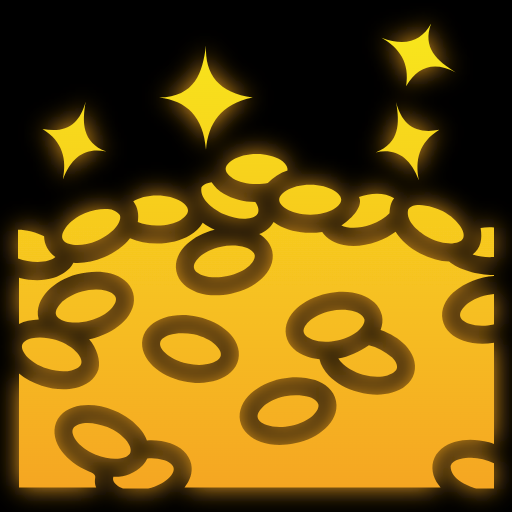
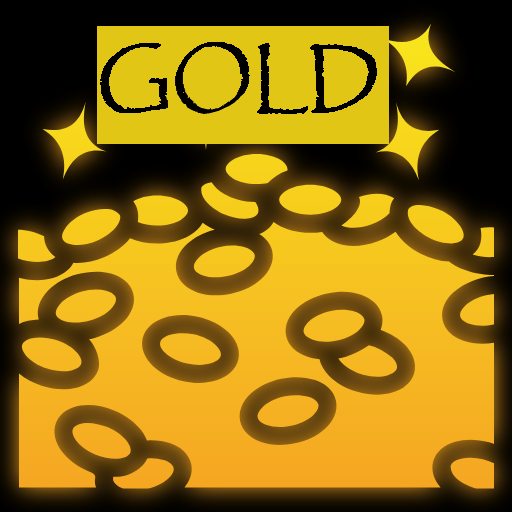
Got gold working.

Changed region(s): [[0.1875, 0.0312, 0.7812, 0.2812]]

diff --git a/Project/Fall2020_CSC403_Project/FrmLevel.Designer.cs b/Project/Fall2020_CSC403_Project/FrmLevel.Designer.cs
@@ -28,7 +28,7 @@
             this.lblInGameTime = new System.Windows.Forms.Label();
             this.tmrUpdateInGameTime = new System.Windows.Forms.Timer(this.components);
             this.tmrPlayerMove = new System.Windows.Forms.Timer(this.components);
-            this.label1 = new System.Windows.Forms.Label();
+            this.goldDisplay = new System.Windows.Forms.Label();
             this.pictureBox1 = new System.Windows.Forms.PictureBox();
             this.picWall11 = new System.Windows.Forms.PictureBox();
             this.picWall2 = new System.Windows.Forms.PictureBox();
@@ -93,19 +93,19 @@
             this.tmrPlayerMove.Interval = 10;
             this.tmrPlayerMove.Tick += new System.EventHandler(this.tmrPlayerMove_Tick);
             // 
-            // label1
+            // goldDisplay
             // 
-            this.label1.AutoSize = true;
-            this.label1.BackColor = System.Drawing.Color.Gold;
-            this.label1.DataBindings.Add(new System.Windows.Forms.Binding("Text", global::Fall2020_CSC403_Project.Properties.Settings.Default, "Gold", true, System.Windows.Forms.DataSourceUpdateMode.OnPropertyChanged));
-            this.label1.Font = new System.Drawing.Font("Papyrus", 12F, System.Drawing.FontStyle.Bold, System.Drawing.GraphicsUnit.Point, ((byte)(0)));
-            this.label1.Location = new System.Drawing.Point(551, 9);
-            this.label1.Name = "label1";
-            this.label1.Size = new System.Drawing.Size(53, 31);
-            this.label1.TabIndex = 18;
-            this.label1.Text = global::Fall2020_CSC403_Project.Properties.Settings.Default.Gold;
-            this.label1.UseCompatibleTextRendering = true;
-            this.label1.Click += new System.EventHandler(this.Label1_Click);
+            this.goldDisplay.AutoSize = true;
+            this.goldDisplay.BackColor = System.Drawing.Color.Gold;
+            this.goldDisplay.DataBindings.Add(new System.Windows.Forms.Binding("Text", global::Fall2020_CSC403_Project.Properties.Settings.Default, "Gold", true, System.Windows.Forms.DataSourceUpdateMode.OnPropertyChanged));
+            this.goldDisplay.Font = new System.Drawing.Font("Papyrus", 12F, System.Drawing.FontStyle.Bold, System.Drawing.GraphicsUnit.Point, ((byte)(0)));
+            this.goldDisplay.Location = new System.Drawing.Point(551, 9);
+            this.goldDisplay.Name = "goldDisplay";
+            this.goldDisplay.Size = new System.Drawing.Size(0, 28);
+            this.goldDisplay.TabIndex = 18;
+            this.goldDisplay.Text = global::Fall2020_CSC403_Project.Properties.Settings.Default.Gold;
+            this.goldDisplay.UseCompatibleTextRendering = true;
+            this.goldDisplay.Click += new System.EventHandler(this.Label1_Click);
             // 
             // pictureBox1
             // 
@@ -326,7 +326,7 @@
             this.ClientSize = new System.Drawing.Size(1176, 726);
             this.Controls.Add(this.pickup_gold);
             this.Controls.Add(this.pictureBox1);
-            this.Controls.Add(this.label1);
+            this.Controls.Add(this.goldDisplay);
             this.Controls.Add(this.picWall11);
             this.Controls.Add(this.picWall2);
             this.Controls.Add(this.picWall8);
@@ -398,7 +398,7 @@
         private System.Windows.Forms.PictureBox picWall1;
         private System.Windows.Forms.PictureBox picWall2;
         private System.Windows.Forms.PictureBox picWall11;
-        private System.Windows.Forms.Label label1;
+        private System.Windows.Forms.Label goldDisplay;
         private System.Windows.Forms.PictureBox pictureBox1;
         private System.Windows.Forms.PictureBox pickup_gold;
     }

diff --git a/Project/MyGameLibrary/Character.cs b/Project/MyGameLibrary/Character.cs
@@ -7,7 +7,6 @@ using System.Threading.Tasks;
 namespace Fall2020_CSC403_Project.code {
     public class Character {
         private const int GO_INC = 3;
-        private int gold = 0;
 
         public Vector2 MoveSpeed { get; private set; }
         public Vector2 LastPosition { get; private set; }
@@ -17,20 +16,6 @@ namespace Fall2020_CSC403_Project.code {
         public Character(Vector2 initPos, Collider collider) {
             Position = initPos;
             Collider = collider;
-        }
-        // accepts an int and adds that to the players gold.
-        public void updateGold(int gUpdate) {
-            if (gUpdate == 0) return;
-
-            if (gUpdate < 0) {
-                if (Math.Abs(gUpdate) >= this.gold)
-                    this.gold = 0;
-                else 
-                    this.gold += gUpdate;
-            }
-            else 
-                this.gold += gUpdate;
-
         }
 
         public void Move() {

diff --git a/Project/Fall2020_CSC403_Project/FrmLevel.cs b/Project/Fall2020_CSC403_Project/FrmLevel.cs
@@ -82,7 +82,11 @@ namespace Fall2020_CSC403_Project {
             {
                 pickUpGold(player); // updates gold counter
                 // need to hide image
-                pickup_gold_001; // need to destroy this item
+                pickup_gold.Dispose();
+
+
+                // need to destroy this item
+                this.pickup_gold_001.Collider.MovePosition(0, 0);
             }
 
             // check collision with enemies
@@ -125,8 +129,9 @@ namespace Fall2020_CSC403_Project {
                 frmBattle.SetupForBossBattle();
             }
         }
-        private void pickUpGold(Character player) {
+        private void pickUpGold(Player player) {
             player.updateGold(5);
+            this.goldDisplay.Text = player.gold.ToString();
         }
 
         private void FrmLevel_KeyDown(object sender, KeyEventArgs e) {

diff --git a/Project/MyGameLibrary/Player.cs b/Project/MyGameLibrary/Player.cs
@@ -6,7 +6,23 @@ using System.Threading.Tasks;
 
 namespace Fall2020_CSC403_Project.code {
     public class Player : BattleCharacter {
+        public int gold = 0;
+
         public Player(Vector2 initPos, Collider collider) : base(initPos, collider) {
+
+        }
+        // accepts an int and adds that to the players gold.
+        public void updateGold(int gUpdate) {
+            if (gUpdate == 0) return;
+
+            if (gUpdate < 0) {
+                if (Math.Abs(gUpdate) >= this.gold)
+                    this.gold = 0;
+                else
+                    this.gold += gUpdate;
+            }
+            else
+                this.gold += gUpdate;
 
         }
     }

diff --git a/Project/Fall2020_CSC403_Project/Properties/Settings.Designer.cs b/Project/Fall2020_CSC403_Project/Properties/Settings.Designer.cs
@@ -25,7 +25,7 @@ namespace Fall2020_CSC403_Project.Properties {
         
         [global::System.Configuration.UserScopedSettingAttribute()]
         [global::System.Diagnostics.DebuggerNonUserCodeAttribute()]
-        [global::System.Configuration.DefaultSettingValueAttribute("Gold: ")]
+        [global::System.Configuration.DefaultSettingValueAttribute("")]
         public string Gold {
             get {
                 return ((string)(this["Gold"]));
